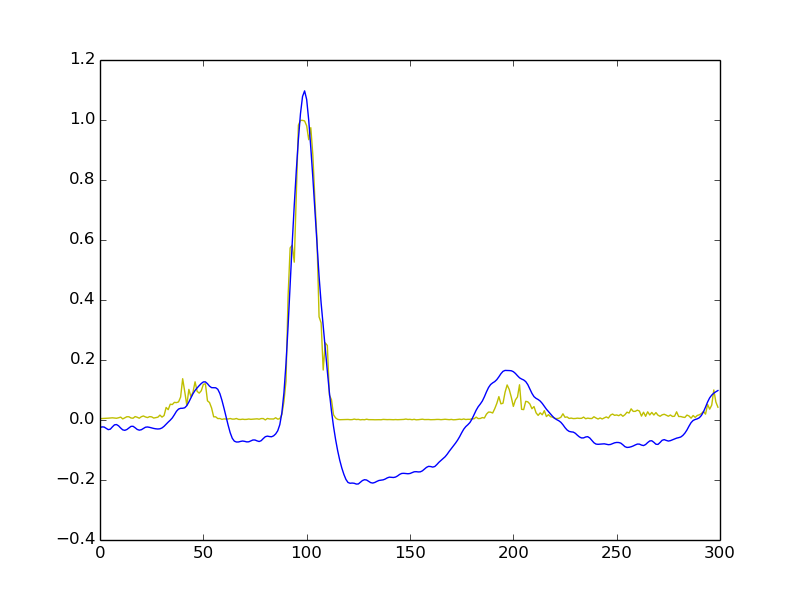
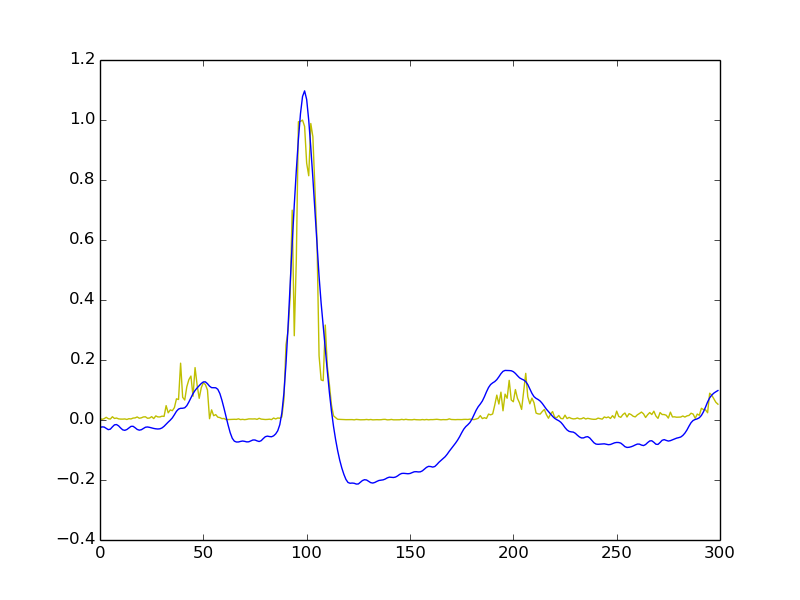
300 hidden 100 epochs

diff --git a/dA.py b/dA.py
@@ -327,7 +327,7 @@ def test_dA(learning_rate=0.001, training_epochs=100,
         theano_rng=theano_rng,
         input=x,
         n_visible=300,
-        n_hidden=200
+        n_hidden=300
     ) 
 
     cost, updates = da.get_cost_updates(
